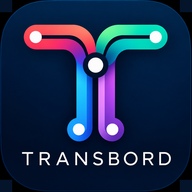
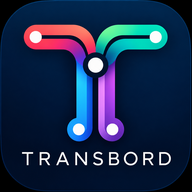
Add files via upload

diff --git a/index.html b/index.html
@@ -49,14 +49,14 @@ html[data-theme="dark"] .btn.danger{color:#ffb4b8;border-color:#744146}
 html[data-theme="dark"] .footer-note{color:var(--muted)}
 html[data-theme="dark"] .route:before{background:color-mix(in srgb,var(--red) 32%,#292a31)}
 .network-picker{max-width:1040px;margin:16px auto 0;padding:0 16px}.network-picker-inner{display:flex;align-items:center;gap:12px;flex-wrap:wrap;background:var(--paper);border:1px solid var(--line);border-radius:14px;padding:12px 16px;box-shadow:var(--shadow)}.network-picker label{font-weight:800;font-size:.88rem}.network-picker select{min-height:40px;min-width:220px;border:1px solid var(--line);border-radius:9px;padding:8px 10px;background:var(--paper);color:var(--ink)}.network-picker .network-note{font-size:.78rem;color:var(--muted);margin:0;flex-basis:100%}html[data-theme="dark"] .network-picker select{background:#24252b;color:var(--ink);border-color:var(--line)}
-@media(max-width:560px){.topbar-inner{align-items:flex-start;flex-wrap:wrap}.heading-copy{flex:1 1 calc(100% - 78px)}.theme-toggle{margin-left:auto}}
+@media(max-width:560px){.header-logo{width:40px;height:40px;border-radius:11px}.topbar-inner{align-items:flex-start;flex-wrap:wrap}.heading-copy{flex:1 1 calc(100% - 78px)}.theme-toggle{margin-left:auto}}
 
-/* Pantalla inicial de selecció de xarxa — Transbord 1.9.2 */
+/* Pantalla inicial de selecció de xarxa — Transbord 1.9.3 */
 .home-screen{min-height:100vh;display:flex;flex-direction:column;align-items:center;justify-content:center;padding:32px 18px 24px;background:var(--bg);color:var(--ink)}
 .home-top{width:min(100%,1000px);display:flex;justify-content:flex-end;margin-bottom:18px}
 .home-screen .theme-toggle{background:var(--paper);color:var(--ink);border-color:var(--line)}
 .home-brand{text-align:center;margin:0 auto 30px;max-width:720px}
-.home-logo{display:inline-grid;place-items:center;width:72px;height:72px;border-radius:22px;background:var(--red);color:#fff;font-weight:900;font-size:2rem;box-shadow:var(--shadow);margin-bottom:16px}
+.home-logo{display:block;width:154px;height:154px;object-fit:cover;border-radius:30px;box-shadow:var(--shadow);margin:0 auto 16px}.header-logo{width:48px;height:48px;object-fit:cover;border-radius:13px;flex:none}
 .home-brand h1{font-size:clamp(2rem,6vw,3.5rem);line-height:1.05;margin:0 0 12px;letter-spacing:-.04em}
 .home-brand p{margin:0;color:var(--muted);font-size:1.05rem}
 .home-network-grid{width:min(100%,920px);display:grid;grid-template-columns:repeat(2,minmax(0,1fr));gap:16px}
@@ -79,17 +79,17 @@ html[data-theme="dark"] .home-network-icon{background:#3a2528}
 <body>
 <section class="home-screen" id="home-screen" aria-labelledby="home-title">
   <div class="home-top"><button class="theme-toggle" id="home-theme-toggle" type="button" aria-pressed="false" aria-label="Activa el mode fosc">☾ <span>Mode fosc</span></button></div>
-  <div class="home-brand"><div class="home-logo" aria-hidden="true">T</div><h1 id="home-title">Transbord</h1><p>El teu registre personal de xarxes ferroviàries.</p></div>
+  <div class="home-brand"><img class="home-logo" src="./icons/transbord-logo.png?v=1.9.3" alt="Logotip de Transbord"><h1 id="home-title">Transbord</h1><p>El teu registre personal de xarxes ferroviàries.</p></div>
   <div class="home-network-grid" aria-label="Tria una xarxa de transport">
     <button class="home-network-card" type="button" data-open-network="metro"><span class="home-network-icon" aria-hidden="true">🚇</span><span class="home-network-copy"><strong>Metro de Barcelona</strong><small>Registra les estacions que has recorregut</small></span></button>
     <button class="home-network-card" type="button" disabled><span class="home-network-icon" aria-hidden="true">🚆</span><span class="home-network-copy"><strong>FGC</strong><small>Properament</small></span></button>
     <button class="home-network-card" type="button" disabled><span class="home-network-icon" aria-hidden="true">🚉</span><span class="home-network-copy"><strong>Rodalies de Catalunya</strong><small>Properament</small></span></button>
     <button class="home-network-card" type="button" disabled><span class="home-network-icon" aria-hidden="true">🚊</span><span class="home-network-copy"><strong>Tram</strong><small>Properament</small></span></button>
   </div>
-  <div class="home-foot"><img src="./icons/icon-192.png" alt="" style="width:34px;height:34px;vertical-align:middle;border-radius:9px;margin-right:7px">Transbord · 1.9.2</div>
+  <div class="home-foot"><img src="./icons/transbord-logo.png?v=1.9.3" alt="Logotip de Transbord" style="width:34px;height:34px;object-fit:cover;vertical-align:middle;border-radius:9px;margin-right:7px">Transbord · 1.9.3</div>
 </section>
 <div id="app-shell" hidden>
-<header class="topbar" id="topbar"><div class="topbar-inner"><div class="line-badge" id="line-badge" aria-label="Línia 1">L1</div><div class="heading-copy"><div class="eyebrow">Metro de Barcelona</div><h1 id="page-title">El meu registre de la L1</h1><p class="subtitle">Marca les estacions que has recorregut.</p></div><button class="theme-toggle" id="theme-toggle" type="button" aria-pressed="false" aria-label="Activa el mode fosc">☾ <span>Mode fosc</span></button></div></header>
+<header class="topbar" id="topbar"><div class="topbar-inner"><img class="header-logo" src="./icons/transbord-logo.png?v=1.9.3" alt="Transbord"><div class="line-badge" id="line-badge" aria-label="Línia 1">L1</div><div class="heading-copy"><div class="eyebrow">Metro de Barcelona</div><h1 id="page-title">El meu registre de la L1</h1><p class="subtitle">Marca les estacions que has recorregut.</p></div><button class="theme-toggle" id="theme-toggle" type="button" aria-pressed="false" aria-label="Activa el mode fosc">☾ <span>Mode fosc</span></button></div></header>
 <section class="network-picker" aria-label="Xarxa de transport"><div class="network-picker-inner"><label for="network-select">Xarxa de transport</label><select id="network-select" aria-describedby="network-note"><option value="metro" selected>Metro de Barcelona</option><option value="fgc" disabled>FGC — properament</option><option value="rodalies" disabled>Rodalies de Catalunya — properament</option><option value="tram" disabled>Tram — properament</option></select><p class="network-note" id="network-note">Ara mateix pots registrar el metro. Aquesta estructura prepararà Transbord per incorporar altres xarxes en les properes versions.</p><button class="back-home" id="back-home" type="button">← Canviar de xarxa</button></div></section>
 <main class="wrap" id="main-wrap">
 <section class="card map-card" aria-labelledby="map-title">
@@ -116,7 +116,7 @@ html[data-theme="dark"] .home-network-icon{background:#3a2528}
     <div class="actions"><button class="btn primary" id="export-btn" type="button">Exportar còpia</button><button class="btn" id="import-btn" type="button">Importar còpia</button><input class="sr-only" id="import-file" type="file" accept=".json,application/json"><button class="btn danger wide" id="reset-btn" type="button">Reiniciar aquesta línia</button></div><p class="backup-help">La còpia inclou totes les línies. També pots importar còpies de seguretat de versions anteriors. Un fitxer incorrecte no substituirà el registre actual.</p>
   </div></section>
 </aside>
-</main><p class="footer-note">Les dades es guarden al navegador d'aquest dispositiu. Exporta una còpia si vols conservar-les o traslladar-les a un altre dispositiu.<br><span class="app-version">Transbord · 1.9.2</span></p>
+</main><p class="footer-note">Les dades es guarden al navegador d'aquest dispositiu. Exporta una còpia si vols conservar-les o traslladar-les a un altre dispositiu.<br><span class="app-version">Transbord · 1.9.3</span></p>
 </div>
 <script>
 (() => {
@@ -570,7 +570,7 @@ setTheme();loadSaved();buildRoute();render();setSaveIndicator('saved',lastSavedA
   });
   window.addEventListener('load', async () => {
     try {
-      const registration = await navigator.serviceWorker.register('./sw.js?v=1.9.2', {
+      const registration = await navigator.serviceWorker.register('./sw.js?v=1.9.3', {
         updateViaCache: 'none'
       });
       await registration.update();

diff --git a/sw.js b/sw.js
@@ -1,5 +1,5 @@
-// Transbord 1.9.2 — actualització immediata i memòria cau versionada.
-const CACHE_NAME = "transbord-cache-v1.9.2";
+// Transbord 1.9.3 — actualització immediata i memòria cau versionada.
+const CACHE_NAME = "transbord-cache-v1.9.3";
 const APP_FILES = [
   "./",
   "./index.html",
@@ -7,7 +7,8 @@ const APP_FILES = [
   "./icons/icon-192.png",
   "./icons/icon-512.png",
   "./icons/icon-512-maskable.png",
-  "./icons/favicon-64.png"
+  "./icons/favicon-64.png",
+  "./icons/transbord-logo.png"
 ];
 
 self.addEventListener("install", event => {
